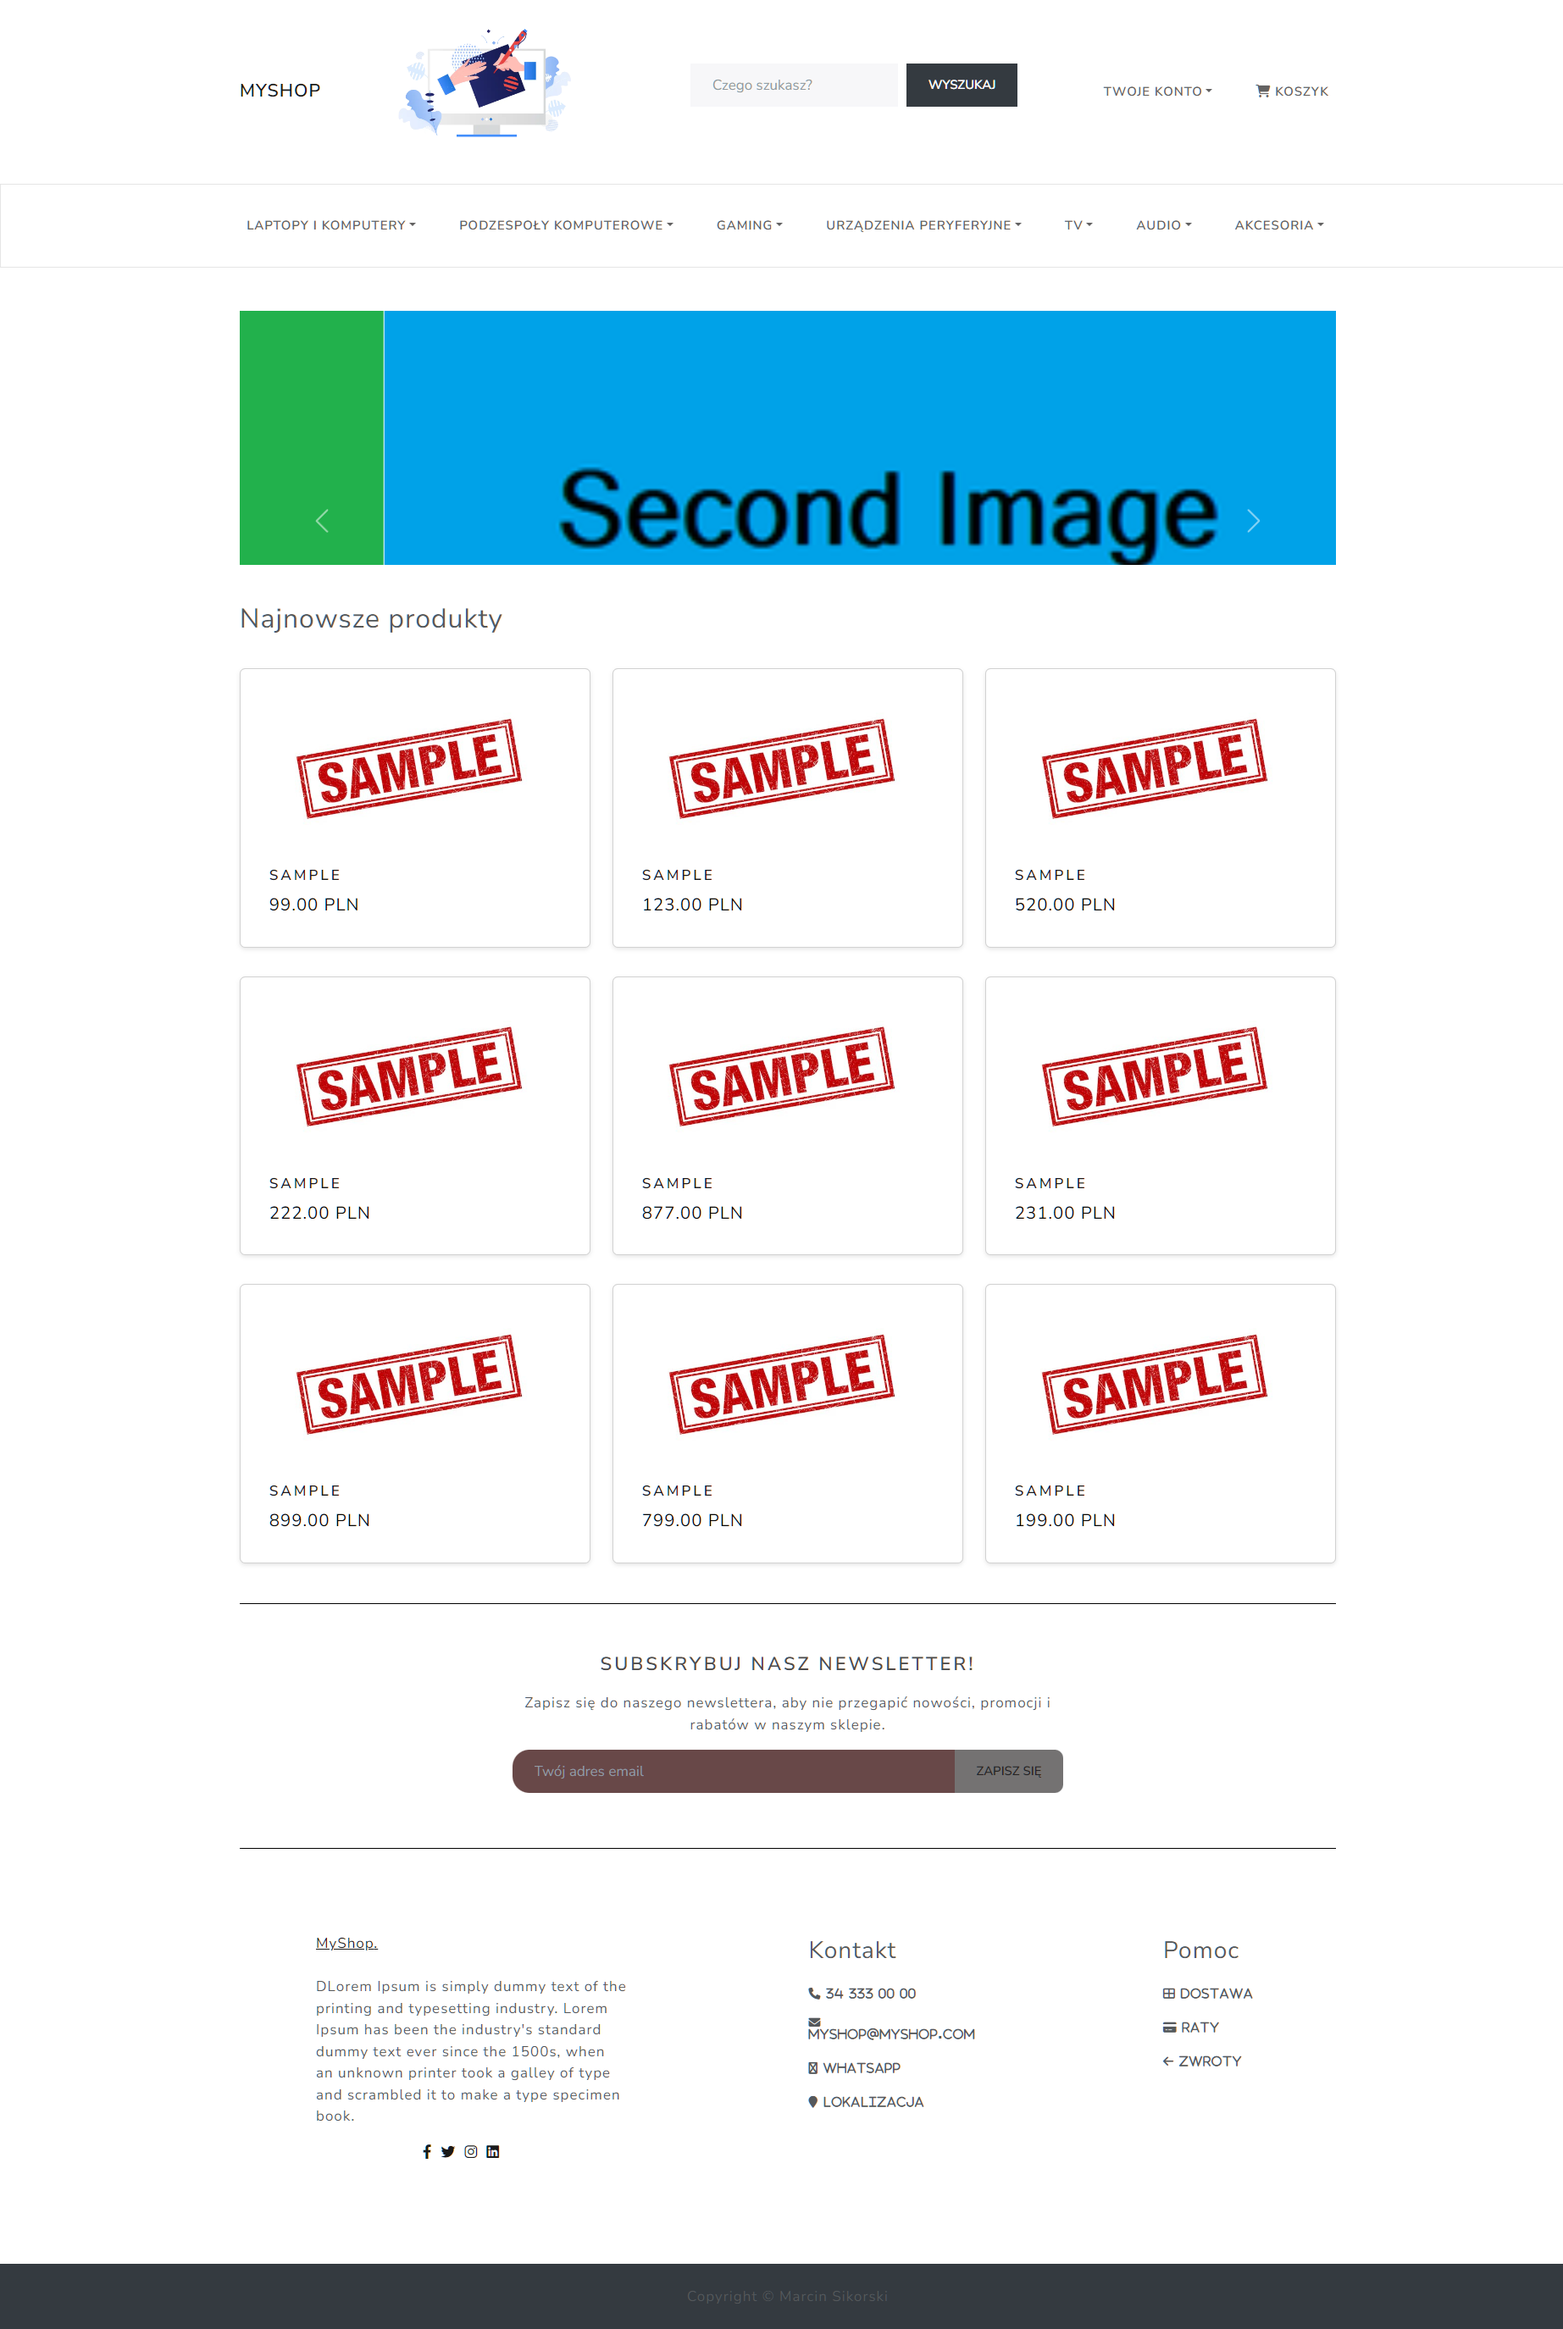
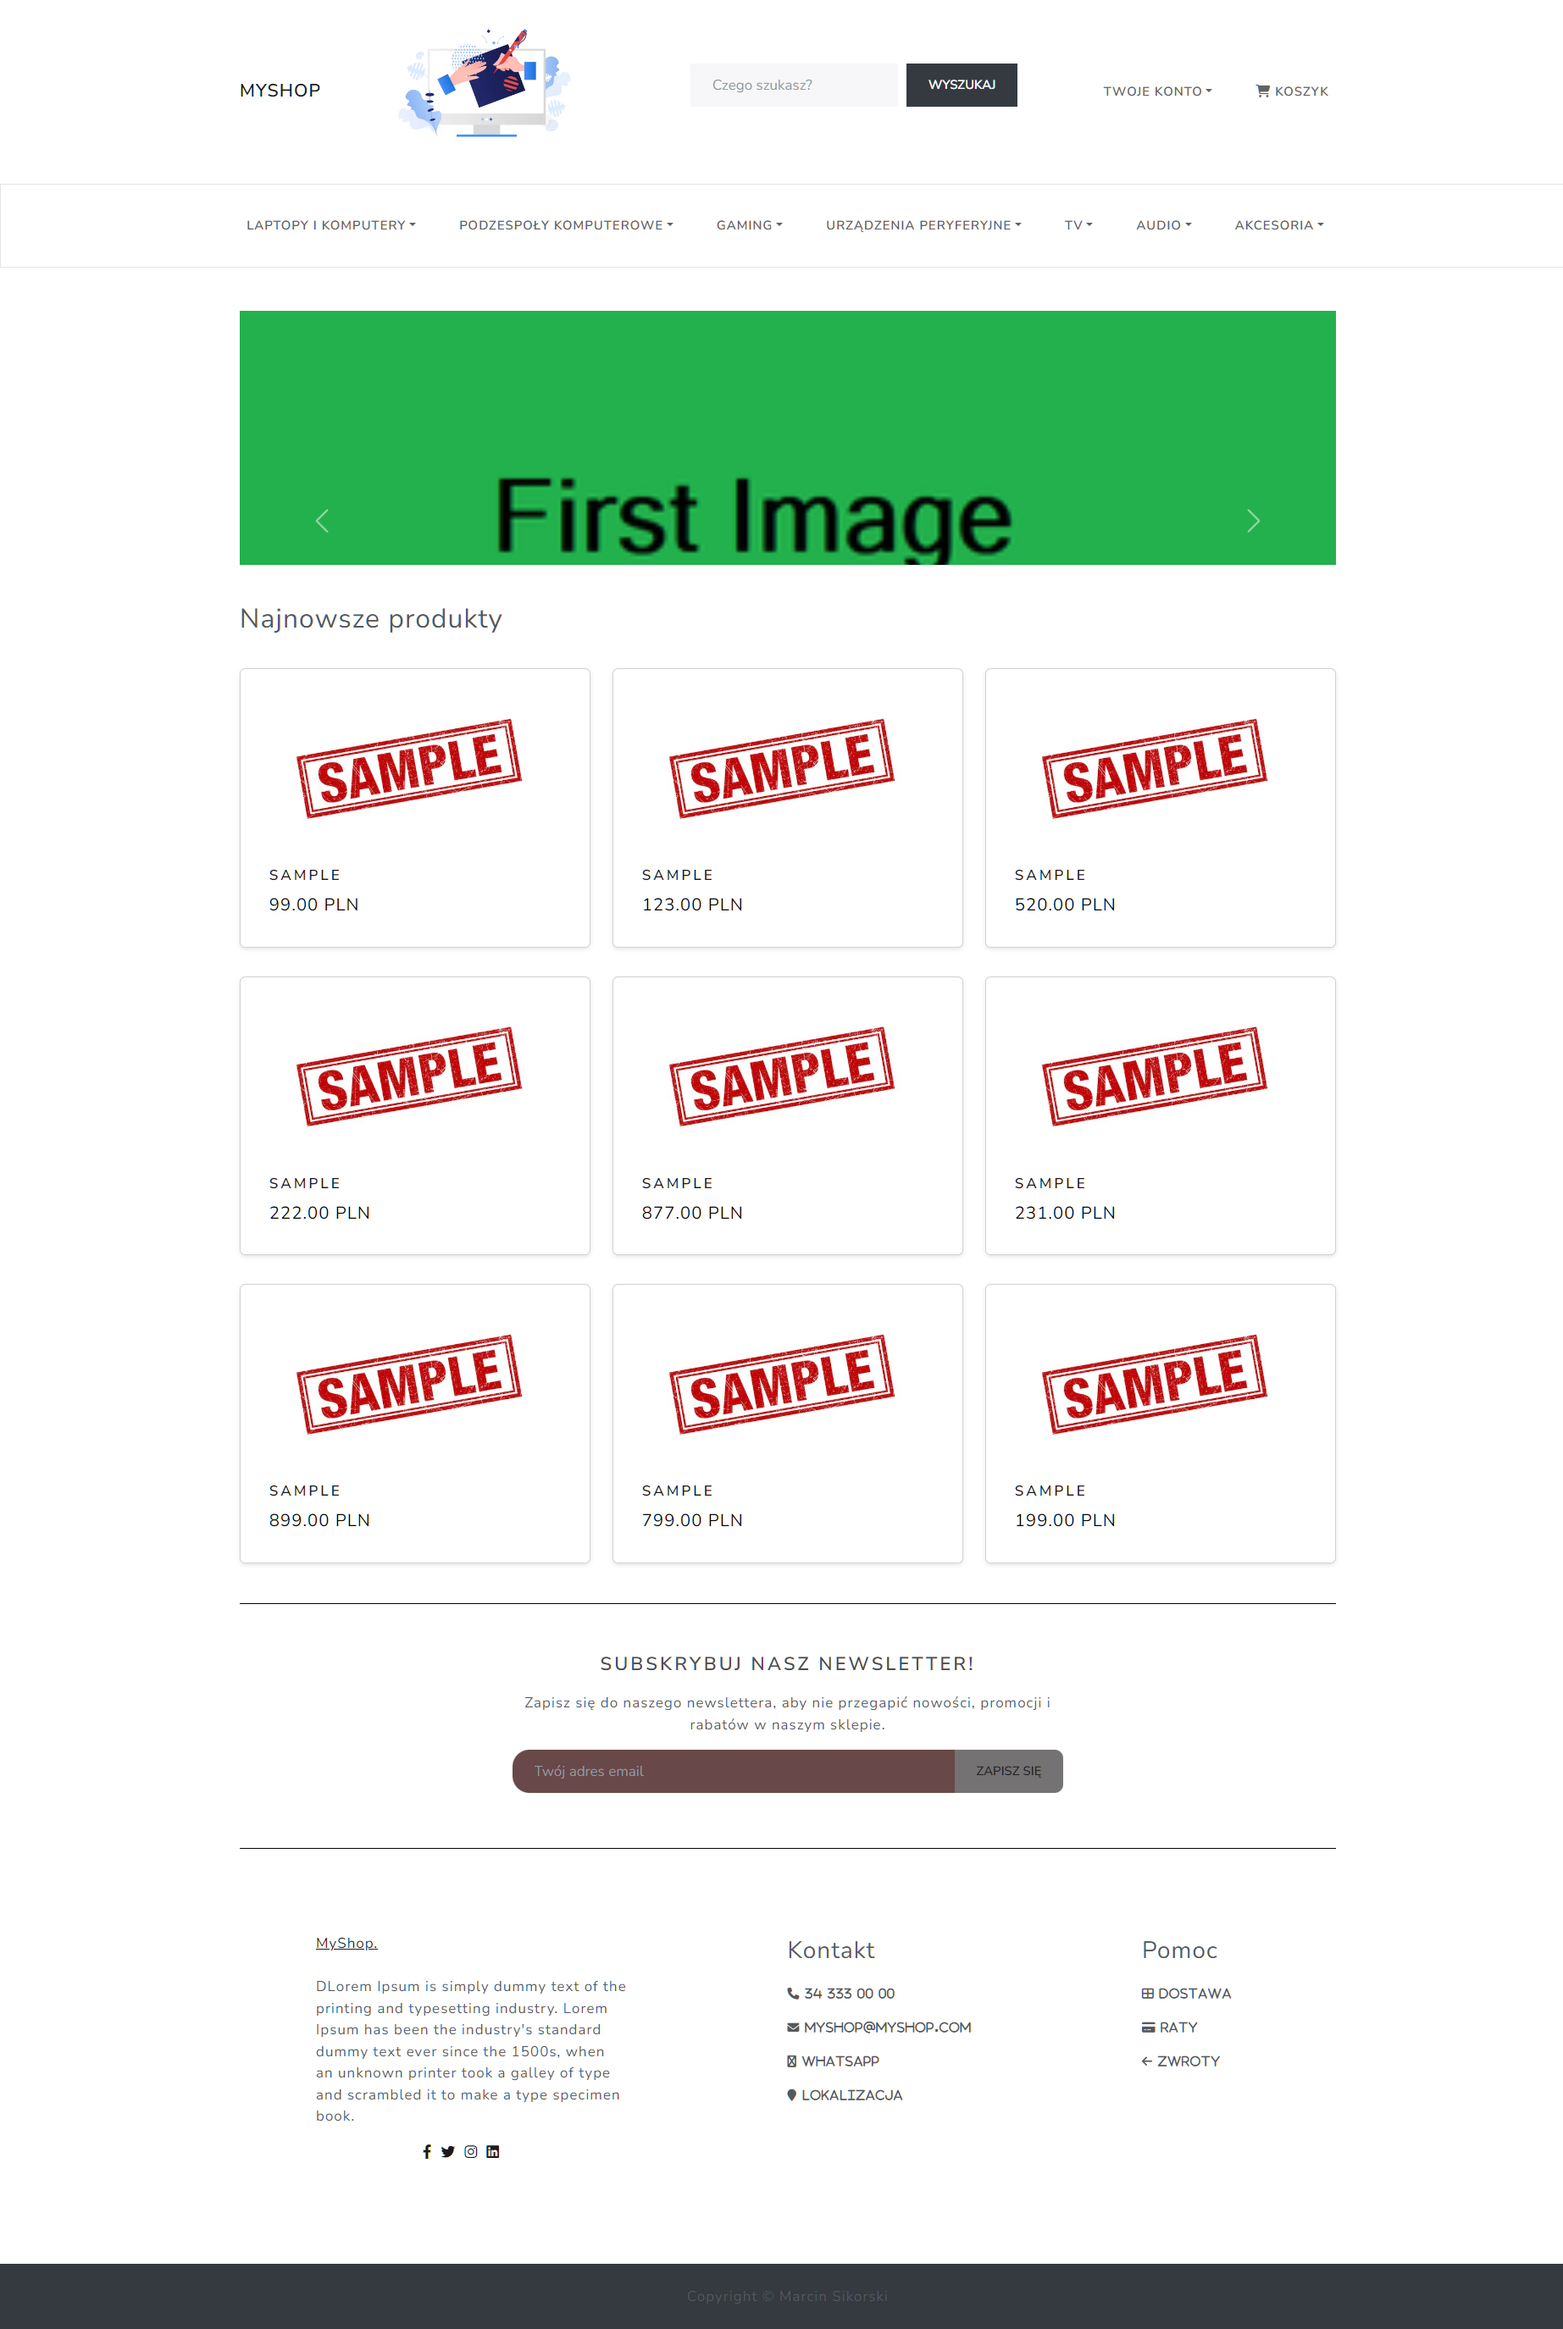
-updated homepage again

Changed region(s): [[0.2472, 0.1236, 0.865, 0.2473], [0.4943, 0.8345, 0.6179, 0.9273], [0.7415, 0.8345, 0.8033, 0.8964]]

diff --git a/frontend/src/screens/HomeScreen.js b/frontend/src/screens/HomeScreen.js
@@ -85,9 +85,9 @@ function HomeScreen() {
           </ul>
         </div>
 
-        <div class ="col" style={{marginLeft: '13%'}}>
+        <div class ="col" style={{marginLeft: '11%'}}>
           <div class="row">
-            <div class="col-9 col-sm-9 col-md-12">
+            <div class="col-9 col-sm-10 col-md-12">
             <p style={{ fontSize: '28px' }}>Kontakt</p>
             <span className="fa fa-phone" aria-hidden="true" style={{ marginBottom: '20px', fontSize: '14px'}}> 34 333 00 00</span>
             <span className="fa fa-envelope" aria-hidden="true" style={{marginBottom: '20px', fontSize: '14px' }}> myshop@myshop.com</span>
@@ -98,9 +98,9 @@ function HomeScreen() {
           </div>
         </div>
 
-        <div class ="col" style={{marginLeft: '13%'}}>
+        <div class ="col" style={{marginLeft: '11%'}}>
           <div class="row">
-            <div class="col-9 col-sm-9 col-md-12">
+            <div class="col-9 col-sm-10 col-md-12">
             <p style={{ fontSize: '28px' }}>Pomoc</p>
             <span className="fa fa-th-large" aria-hidden="true" style={{ marginBottom: '20px', fontSize: '14px'}}> Dostawa</span>
             <br></br>
